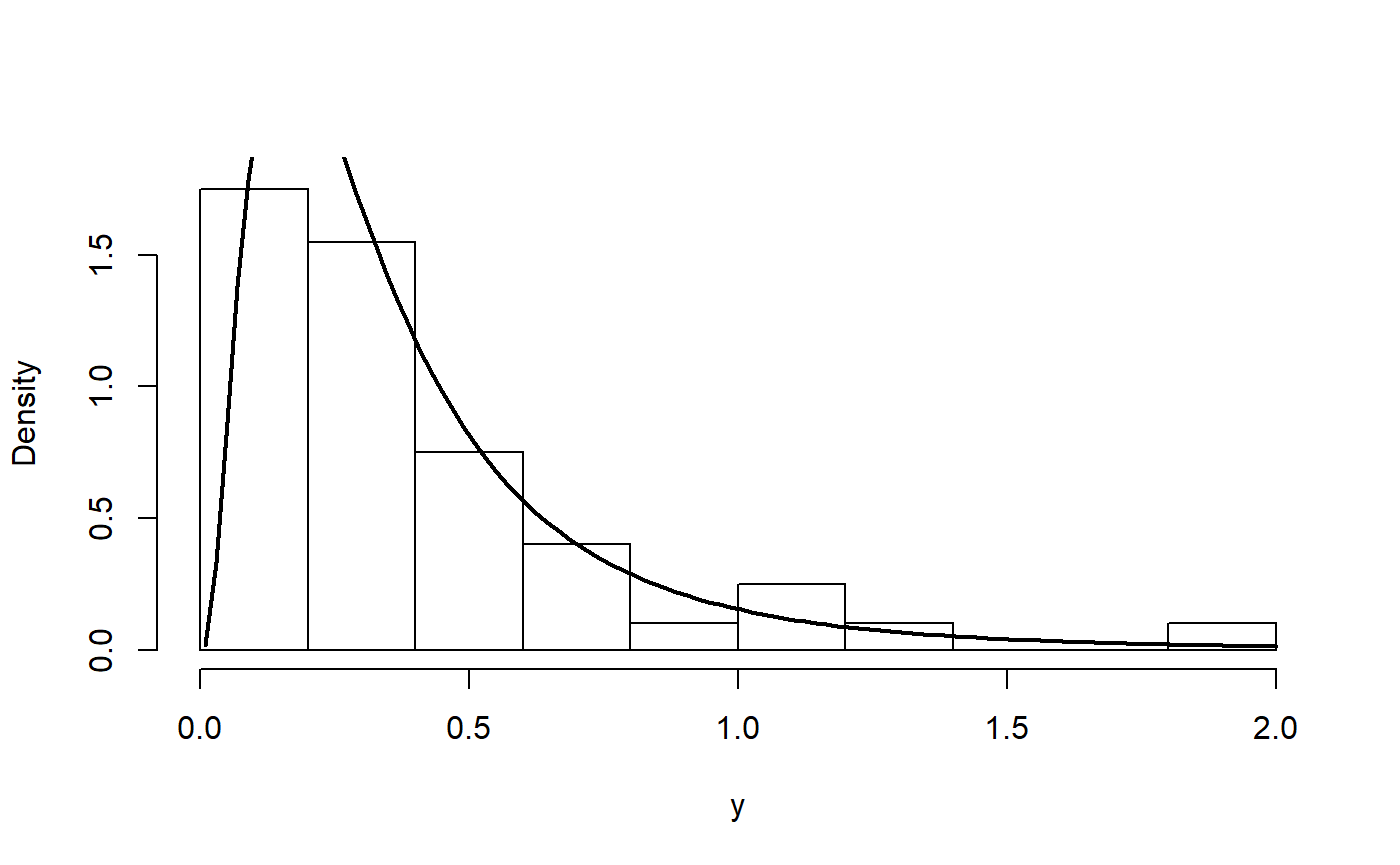
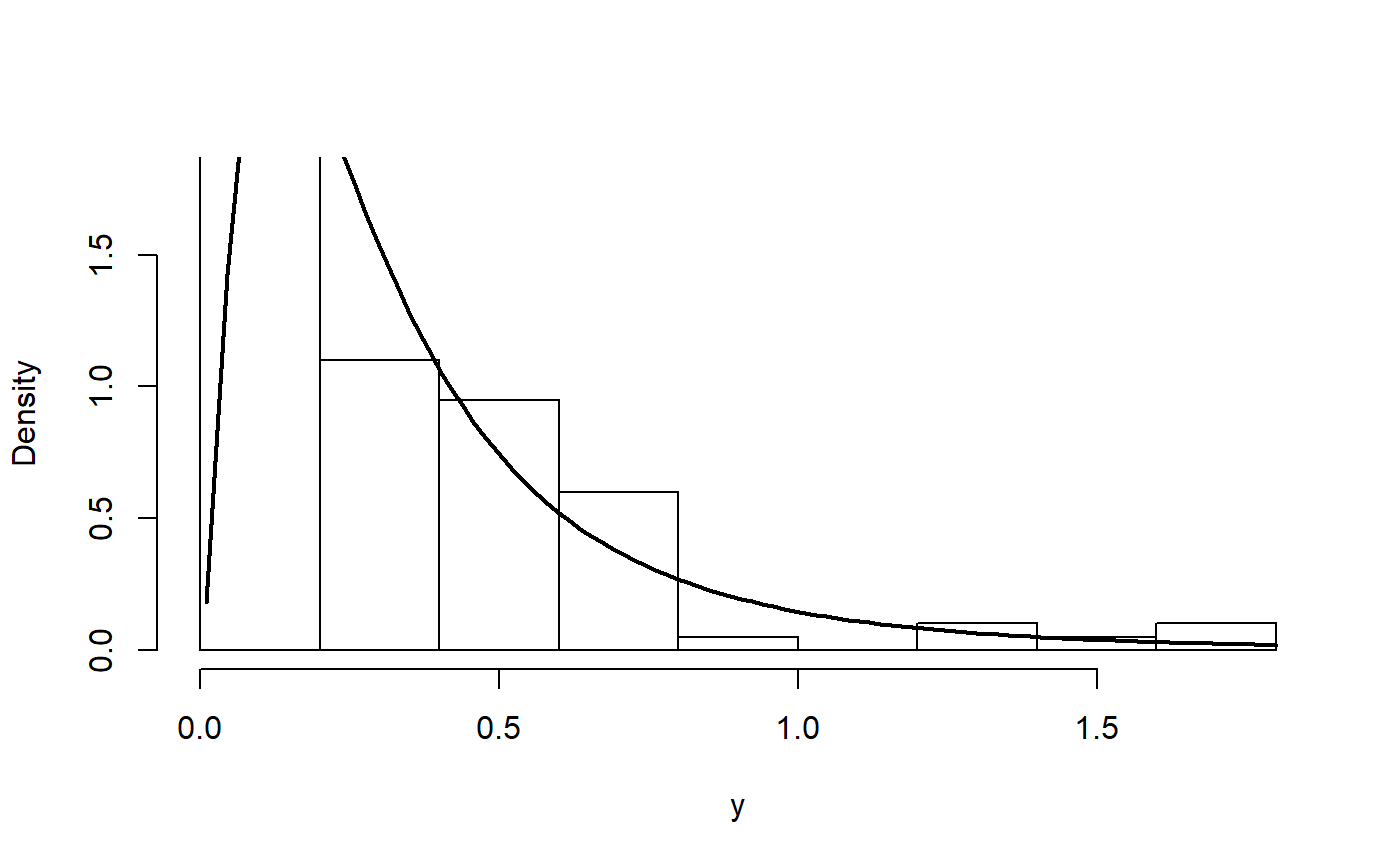
actualice la pag web :punch: :punch:

diff --git a/docs/reference/dKW.html b/docs/reference/dKW.html
@@ -1,0 +1,248 @@
+<!-- Generated by pkgdown: do not edit by hand -->
+<!DOCTYPE html>
+<html>
+  <head>
+  <meta charset="utf-8">
+<meta http-equiv="X-UA-Compatible" content="IE=edge">
+<meta name="viewport" content="width=device-width, initial-scale=1.0">
+
+<title>The Kumaraswamy Weibull Distribution — dKW • RelDists</title>
+
+<!-- jquery -->
+<script src="https://code.jquery.com/jquery-3.1.0.min.js" integrity="sha384-nrOSfDHtoPMzJHjVTdCopGqIqeYETSXhZDFyniQ8ZHcVy08QesyHcnOUpMpqnmWq" crossorigin="anonymous"></script>
+<!-- Bootstrap -->
+
+<link href="https://maxcdn.bootstrapcdn.com/bootstrap/3.3.7/css/bootstrap.min.css" rel="stylesheet" integrity="sha384-BVYiiSIFeK1dGmJRAkycuHAHRg32OmUcww7on3RYdg4Va+PmSTsz/K68vbdEjh4u" crossorigin="anonymous">
+<script src="https://maxcdn.bootstrapcdn.com/bootstrap/3.3.7/js/bootstrap.min.js" integrity="sha384-Tc5IQib027qvyjSMfHjOMaLkfuWVxZxUPnCJA7l2mCWNIpG9mGCD8wGNIcPD7Txa" crossorigin="anonymous"></script>
+
+<!-- Font Awesome icons -->
+<link href="https://maxcdn.bootstrapcdn.com/font-awesome/4.6.3/css/font-awesome.min.css" rel="stylesheet" integrity="sha384-T8Gy5hrqNKT+hzMclPo118YTQO6cYprQmhrYwIiQ/3axmI1hQomh7Ud2hPOy8SP1" crossorigin="anonymous">
+
+<!-- clipboard.js -->
+<script src="https://cdnjs.cloudflare.com/ajax/libs/clipboard.js/1.7.1/clipboard.min.js" integrity="sha384-cV+rhyOuRHc9Ub/91rihWcGmMmCXDeksTtCihMupQHSsi8GIIRDG0ThDc3HGQFJ3" crossorigin="anonymous"></script>
+
+<!-- sticky kit -->
+<script src="https://cdnjs.cloudflare.com/ajax/libs/sticky-kit/1.1.3/sticky-kit.min.js" integrity="sha256-c4Rlo1ZozqTPE2RLuvbusY3+SU1pQaJC0TjuhygMipw=" crossorigin="anonymous"></script>
+
+<!-- pkgdown -->
+<link href="../pkgdown.css" rel="stylesheet">
+<script src="../pkgdown.js"></script>
+
+
+
+<meta property="og:title" content="The Kumaraswamy Weibull Distribution — dKW" />
+
+<meta property="og:description" content="Density, distribution function, quantile function, 
+random generation and hazard function for the Kumaraswamy Weibull distribution 
+with parameters mu, sigma, nu and tau." />
+<meta name="twitter:card" content="summary" />
+
+
+
+<!-- mathjax -->
+<script src='https://mathjax.rstudio.com/latest/MathJax.js?config=TeX-AMS-MML_HTMLorMML'></script>
+
+<!--[if lt IE 9]>
+<script src="https://oss.maxcdn.com/html5shiv/3.7.3/html5shiv.min.js"></script>
+<script src="https://oss.maxcdn.com/respond/1.4.2/respond.min.js"></script>
+<![endif]-->
+
+
+  </head>
+
+  <body>
+    <div class="container template-reference-topic">
+      <header>
+      <div class="navbar navbar-default navbar-fixed-top" role="navigation">
+  <div class="container">
+    <div class="navbar-header">
+      <button type="button" class="navbar-toggle collapsed" data-toggle="collapse" data-target="#navbar">
+        <span class="icon-bar"></span>
+        <span class="icon-bar"></span>
+        <span class="icon-bar"></span>
+      </button>
+      <span class="navbar-brand">
+        <a class="navbar-link" href="../index.html">RelDists</a>
+        <span class="label label-default" data-toggle="tooltip" data-placement="bottom" title="Released package">0.0.1</span>
+      </span>
+    </div>
+
+    <div id="navbar" class="navbar-collapse collapse">
+      <ul class="nav navbar-nav">
+        <li>
+  <a href="../index.html">
+    <span class="fa fa-home fa-lg"></span>
+     
+  </a>
+</li>
+<li>
+  <a href="../reference/index.html">Reference</a>
+</li>
+<li class="dropdown">
+  <a href="#" class="dropdown-toggle" data-toggle="dropdown" role="button" aria-expanded="false">
+    Articles
+     
+    <span class="caret"></span>
+  </a>
+  <ul class="dropdown-menu" role="menu">
+    <li>
+      <a href="../articles/EW_distribution.html">EW distribution</a>
+    </li>
+    <li>
+      <a href="../articles/FWE_distribution.html">FWE distribution</a>
+    </li>
+    <li>
+      <a href="../articles/OW_distribution.html">OW distribution</a>
+    </li>
+  </ul>
+</li>
+      </ul>
+      
+      <ul class="nav navbar-nav navbar-right">
+        
+      </ul>
+      
+    </div><!--/.nav-collapse -->
+  </div><!--/.container -->
+</div><!--/.navbar -->
+
+      
+      </header>
+
+<div class="row">
+  <div class="col-md-9 contents">
+    <div class="page-header">
+    <h1>The Kumaraswamy Weibull Distribution</h1>
+    
+    <div class="hidden name"><code>dKW.Rd</code></div>
+    </div>
+
+    <div class="ref-description">
+    
+    <p>Density, distribution function, quantile function, 
+random generation and hazard function for the Kumaraswamy Weibull distribution 
+with parameters <code>mu</code>, <code>sigma</code>, <code>nu</code> and <code>tau</code>.</p>
+    
+    </div>
+
+    <pre class="usage"><span class='fu'>dKW</span>(<span class='no'>x</span>, <span class='no'>mu</span>, <span class='no'>sigma</span>, <span class='no'>nu</span>, <span class='no'>tau</span>, <span class='kw'>log</span> <span class='kw'>=</span> <span class='fl'>FALSE</span>)
+
+<span class='fu'>pKW</span>(<span class='no'>q</span>, <span class='no'>mu</span>, <span class='no'>sigma</span>, <span class='no'>nu</span>, <span class='no'>tau</span>, <span class='kw'>lower.tail</span> <span class='kw'>=</span> <span class='fl'>TRUE</span>, <span class='kw'>log.p</span> <span class='kw'>=</span> <span class='fl'>FALSE</span>)
+
+<span class='fu'>qKW</span>(<span class='no'>p</span>, <span class='no'>mu</span>, <span class='no'>sigma</span>, <span class='no'>nu</span>, <span class='no'>tau</span>, <span class='kw'>lower.tail</span> <span class='kw'>=</span> <span class='fl'>TRUE</span>, <span class='kw'>log.p</span> <span class='kw'>=</span> <span class='fl'>FALSE</span>)
+
+<span class='fu'>rKW</span>(<span class='no'>n</span>, <span class='no'>mu</span>, <span class='no'>sigma</span>, <span class='no'>nu</span>, <span class='no'>tau</span>)
+
+<span class='fu'>hKW</span>(<span class='no'>x</span>, <span class='no'>mu</span>, <span class='no'>sigma</span>, <span class='no'>nu</span>, <span class='no'>tau</span>)</pre>
+    
+    <h2 class="hasAnchor" id="arguments"><a class="anchor" href="#arguments"></a>Arguments</h2>
+    <table class="ref-arguments">
+    <colgroup><col class="name" /><col class="desc" /></colgroup>
+    <tr>
+      <th>x, q</th>
+      <td><p>vector of quantiles.</p></td>
+    </tr>
+    <tr>
+      <th>mu</th>
+      <td><p>parameter.</p></td>
+    </tr>
+    <tr>
+      <th>sigma</th>
+      <td><p>parameter.</p></td>
+    </tr>
+    <tr>
+      <th>nu</th>
+      <td><p>parameter.</p></td>
+    </tr>
+    <tr>
+      <th>tau</th>
+      <td><p>parameter.</p></td>
+    </tr>
+    <tr>
+      <th>log, log.p</th>
+      <td><p>logical; if TRUE, probabilities p are given as log(p).</p></td>
+    </tr>
+    <tr>
+      <th>lower.tail</th>
+      <td><p>logical; if TRUE (default), probabilities are P[X &lt;= x], otherwise, P[X &gt; x].</p></td>
+    </tr>
+    <tr>
+      <th>p</th>
+      <td><p>vector of probabilities.</p></td>
+    </tr>
+    <tr>
+      <th>n</th>
+      <td><p>number of observations.</p></td>
+    </tr>
+    </table>
+    
+    <h2 class="hasAnchor" id="value"><a class="anchor" href="#value"></a>Value</h2>
+
+    <p><code>dKW</code> gives the density, <code>pKW</code> gives the distribution 
+function, <code>qKW</code> gives the quantile function, <code>rKW</code>
+generates random deviates and <code>hKW</code> gives the hazard function.</p>
+    
+    <h2 class="hasAnchor" id="details"><a class="anchor" href="#details"></a>Details</h2>
+
+    <p>The Kumaraswamy Weibull Distribution with parameters <code>mu</code>, 
+<code>sigma</code>, <code>nu</code> and <code>tau</code> has density given by</p>
+<p>\(f(x)=\nu \tau \mu \sigma x^{\sigma - 1} \exp^{-\mu x ^\sigma} [1 - \exp^{-\mu x ^ \sigma}]^{\nu-1}[1-(1-\exp^{-\mu x ^ \sigma})^\nu]^{\tau-1},\)</p>
+<p>for x &gt; 0.</p>
+    
+
+    <h2 class="hasAnchor" id="examples"><a class="anchor" href="#examples"></a>Examples</h2>
+    <pre class="examples"><div class='input'>
+<span class='co'>## The probability density function</span>
+<span class='fu'>curve</span>(<span class='fu'>dKW</span>(<span class='no'>x</span>, <span class='kw'>mu</span><span class='kw'>=</span><span class='fl'>3</span>, <span class='kw'>sigma</span><span class='kw'>=</span><span class='fl'>0.8</span>, <span class='kw'>nu</span><span class='kw'>=</span><span class='fl'>2.0</span>, <span class='kw'>tau</span><span class='kw'>=</span><span class='fl'>1.5</span>), <span class='kw'>from</span><span class='kw'>=</span><span class='fl'>0</span>, <span class='kw'>to</span><span class='kw'>=</span><span class='fl'>2</span>,
+      <span class='kw'>ylim</span><span class='kw'>=</span><span class='fu'>c</span>(<span class='fl'>0</span>, <span class='fl'>2.5</span>), <span class='kw'>col</span><span class='kw'>=</span><span class='st'>"red"</span>, <span class='kw'>las</span><span class='kw'>=</span><span class='fl'>1</span>, <span class='kw'>ylab</span><span class='kw'>=</span><span class='st'>"f(x)"</span>)</div><div class='img'><img src='dKW-1.png' alt='' width='700' height='433' /></div><div class='input'>
+<span class='co'>## The cumulative distribution and the Reliability function</span>
+<span class='fu'>par</span>(<span class='kw'>mfrow</span><span class='kw'>=</span><span class='fu'>c</span>(<span class='fl'>1</span>, <span class='fl'>2</span>))
+<span class='fu'>curve</span>(<span class='fu'>pKW</span>(<span class='no'>x</span>, <span class='kw'>mu</span><span class='kw'>=</span><span class='fl'>3</span>, <span class='kw'>sigma</span><span class='kw'>=</span><span class='fl'>0.8</span>, <span class='kw'>nu</span><span class='kw'>=</span><span class='fl'>2.0</span>, <span class='kw'>tau</span><span class='kw'>=</span><span class='fl'>1.5</span>),
+      <span class='kw'>from</span><span class='kw'>=</span><span class='fl'>0</span>, <span class='kw'>to</span><span class='kw'>=</span><span class='fl'>2</span>,  <span class='kw'>col</span><span class='kw'>=</span><span class='st'>"red"</span>, <span class='kw'>las</span><span class='kw'>=</span><span class='fl'>1</span>, <span class='kw'>ylab</span><span class='kw'>=</span><span class='st'>"F(x)"</span>)
+<span class='fu'>curve</span>(<span class='fu'>pKW</span>(<span class='no'>x</span>, <span class='kw'>mu</span><span class='kw'>=</span><span class='fl'>3</span>, <span class='kw'>sigma</span><span class='kw'>=</span><span class='fl'>0.8</span>, <span class='kw'>nu</span><span class='kw'>=</span><span class='fl'>2.0</span>, <span class='kw'>tau</span><span class='kw'>=</span><span class='fl'>1.5</span>, <span class='kw'>lower.tail</span><span class='kw'>=</span><span class='fl'>FALSE</span>),
+      <span class='kw'>from</span><span class='kw'>=</span><span class='fl'>0</span>, <span class='kw'>to</span><span class='kw'>=</span><span class='fl'>2</span>, <span class='kw'>col</span><span class='kw'>=</span><span class='st'>"red"</span>, <span class='kw'>las</span><span class='kw'>=</span><span class='fl'>1</span>, <span class='kw'>ylab</span><span class='kw'>=</span><span class='st'>"S(x)"</span>)</div><div class='img'><img src='dKW-2.png' alt='' width='700' height='433' /></div><div class='input'>
+<span class='co'>## The quantile function</span>
+<span class='no'>p</span> <span class='kw'>&lt;-</span> <span class='fu'>seq</span>(<span class='kw'>from</span><span class='kw'>=</span><span class='fl'>0</span>, <span class='kw'>to</span><span class='kw'>=</span><span class='fl'>0.99999</span>, <span class='kw'>length.out</span><span class='kw'>=</span><span class='fl'>100</span>)
+<span class='fu'>plot</span>(<span class='kw'>x</span><span class='kw'>=</span><span class='fu'>qKW</span>(<span class='no'>p</span>, <span class='kw'>mu</span><span class='kw'>=</span><span class='fl'>3</span>, <span class='kw'>sigma</span><span class='kw'>=</span><span class='fl'>0.8</span>, <span class='kw'>nu</span><span class='kw'>=</span><span class='fl'>2.0</span>, <span class='kw'>tau</span><span class='kw'>=</span><span class='fl'>1.5</span>), <span class='kw'>y</span><span class='kw'>=</span><span class='no'>p</span>, <span class='kw'>xlab</span><span class='kw'>=</span><span class='st'>"Quantile"</span>,
+     <span class='kw'>las</span><span class='kw'>=</span><span class='fl'>1</span>, <span class='kw'>ylab</span><span class='kw'>=</span><span class='st'>"Probability"</span>)
+<span class='fu'>curve</span>(<span class='fu'>pKW</span>(<span class='no'>x</span>, <span class='kw'>mu</span><span class='kw'>=</span><span class='fl'>3</span>, <span class='kw'>sigma</span><span class='kw'>=</span><span class='fl'>0.8</span>, <span class='kw'>nu</span><span class='kw'>=</span><span class='fl'>2.0</span>, <span class='kw'>tau</span><span class='kw'>=</span><span class='fl'>1.5</span>), <span class='kw'>from</span><span class='kw'>=</span><span class='fl'>0</span>, <span class='kw'>add</span><span class='kw'>=</span><span class='fl'>TRUE</span>, <span class='kw'>col</span><span class='kw'>=</span><span class='st'>"red"</span>)
+
+<span class='co'>## The random function</span>
+<span class='fu'>hist</span>(<span class='fu'>rKW</span>(<span class='kw'>n</span><span class='kw'>=</span><span class='fl'>10000</span>, <span class='kw'>mu</span><span class='kw'>=</span><span class='fl'>3</span>, <span class='kw'>sigma</span><span class='kw'>=</span><span class='fl'>0.8</span>, <span class='kw'>nu</span><span class='kw'>=</span><span class='fl'>2.0</span>, <span class='kw'>tau</span><span class='kw'>=</span><span class='fl'>1.5</span>), <span class='kw'>freq</span><span class='kw'>=</span><span class='fl'>FALSE</span>,
+     <span class='kw'>xlab</span><span class='kw'>=</span><span class='st'>"x"</span>, <span class='kw'>las</span><span class='kw'>=</span><span class='fl'>1</span>, <span class='kw'>main</span><span class='kw'>=</span><span class='st'>""</span>)</div><div class='input'><span class='fu'>curve</span>(<span class='fu'>dKW</span>(<span class='no'>x</span>, <span class='kw'>mu</span><span class='kw'>=</span><span class='fl'>3</span>, <span class='kw'>sigma</span><span class='kw'>=</span><span class='fl'>0.8</span>, <span class='kw'>nu</span><span class='kw'>=</span><span class='fl'>2.0</span>, <span class='kw'>tau</span><span class='kw'>=</span><span class='fl'>1.5</span>), <span class='kw'>from</span><span class='kw'>=</span><span class='fl'>0</span>, <span class='kw'>add</span><span class='kw'>=</span><span class='fl'>TRUE</span>, <span class='kw'>col</span><span class='kw'>=</span><span class='st'>"red"</span>)</div><div class='img'><img src='dKW-3.png' alt='' width='700' height='433' /></div><div class='input'>
+<span class='co'>## The Hazard function</span>
+<span class='fu'>curve</span>(<span class='fu'>hKW</span>(<span class='no'>x</span>, <span class='kw'>mu</span><span class='kw'>=</span><span class='fl'>3</span>, <span class='kw'>sigma</span><span class='kw'>=</span><span class='fl'>0.8</span>, <span class='kw'>nu</span><span class='kw'>=</span><span class='fl'>2.0</span>, <span class='kw'>tau</span><span class='kw'>=</span><span class='fl'>1.5</span>), <span class='kw'>from</span><span class='kw'>=</span><span class='fl'>0</span>, <span class='kw'>to</span><span class='kw'>=</span><span class='fl'>2</span>, <span class='kw'>ylim</span><span class='kw'>=</span><span class='fu'>c</span>(<span class='fl'>0</span>, <span class='fl'>7</span>),
+      <span class='kw'>col</span><span class='kw'>=</span><span class='st'>"red"</span>, <span class='kw'>ylab</span><span class='kw'>=</span><span class='st'>"Hazard function"</span>, <span class='kw'>las</span><span class='kw'>=</span><span class='fl'>1</span>)</div><div class='img'><img src='dKW-4.png' alt='' width='700' height='433' /></div></pre>
+  </div>
+  <div class="col-md-3 hidden-xs hidden-sm" id="sidebar">
+    <h2>Contents</h2>
+    <ul class="nav nav-pills nav-stacked">
+      <li><a href="#arguments">Arguments</a></li>
+      
+      <li><a href="#value">Value</a></li>
+
+      <li><a href="#details">Details</a></li>
+      
+      <li><a href="#examples">Examples</a></li>
+    </ul>
+
+  </div>
+</div>
+
+      <footer>
+      <div class="copyright">
+  <p>Developed by Freddy Hernandez.</p>
+</div>
+
+<div class="pkgdown">
+  <p>Site built with <a href="http://pkgdown.r-lib.org/">pkgdown</a>.</p>
+</div>
+
+      </footer>
+   </div>
+
+  
+
+  </body>
+</html>
+

diff --git a/docs/reference/EW.html b/docs/reference/EW.html
@@ -165,9 +165,9 @@
 <span class='co'># Extracting the fitted values for mu, sigma and nu</span>
 <span class='co'># using the inverse link function</span>
 <span class='fu'>exp</span>(<span class='fu'>coef</span>(<span class='no'>mod</span>, <span class='kw'>what</span><span class='kw'>=</span><span class='st'>'mu'</span>))</div><div class='output co'>#&gt; (Intercept) 
-#&gt;    1.166086 </div><div class='input'><span class='fu'>exp</span>(<span class='fu'>coef</span>(<span class='no'>mod</span>, <span class='kw'>what</span><span class='kw'>=</span><span class='st'>'sigma'</span>))</div><div class='output co'>#&gt; (Intercept) 
-#&gt;    2.848179 </div><div class='input'><span class='fu'>exp</span>(<span class='fu'>coef</span>(<span class='no'>mod</span>, <span class='kw'>what</span><span class='kw'>=</span><span class='st'>'nu'</span>))</div><div class='output co'>#&gt; (Intercept) 
-#&gt;   0.1995805 </div><div class='input'>
+#&gt;    2.419435 </div><div class='input'><span class='fu'>exp</span>(<span class='fu'>coef</span>(<span class='no'>mod</span>, <span class='kw'>what</span><span class='kw'>=</span><span class='st'>'sigma'</span>))</div><div class='output co'>#&gt; (Intercept) 
+#&gt;    2.109125 </div><div class='input'><span class='fu'>exp</span>(<span class='fu'>coef</span>(<span class='no'>mod</span>, <span class='kw'>what</span><span class='kw'>=</span><span class='st'>'nu'</span>))</div><div class='output co'>#&gt; (Intercept) 
+#&gt;   0.3284974 </div><div class='input'>
 <span class='co'># Example 2</span>
 <span class='co'># Generating random values under some model</span>
 <span class='no'>n</span> <span class='kw'>&lt;-</span> <span class='fl'>200</span>
@@ -182,9 +182,9 @@
               <span class='kw'>control</span><span class='kw'>=</span><span class='fu'><a href='http://www.rdocumentation.org/packages/gamlss/topics/gamlss.control'>gamlss.control</a></span>(<span class='kw'>n.cyc</span><span class='kw'>=</span><span class='fl'>5000</span>, <span class='kw'>trace</span><span class='kw'>=</span><span class='fl'>FALSE</span>))
 
 <span class='fu'>coef</span>(<span class='no'>mod</span>, <span class='kw'>what</span><span class='kw'>=</span><span class='st'>"mu"</span>)</div><div class='output co'>#&gt; (Intercept)          x1 
-#&gt;    2.155175   -3.307358 </div><div class='input'><span class='fu'>coef</span>(<span class='no'>mod</span>, <span class='kw'>what</span><span class='kw'>=</span><span class='st'>"sigma"</span>)</div><div class='output co'>#&gt; (Intercept)          x2 
-#&gt;    3.066709   -1.948430 </div><div class='input'><span class='fu'>coef</span>(<span class='no'>mod</span>, <span class='kw'>what</span><span class='kw'>=</span><span class='st'>"nu"</span>)</div><div class='output co'>#&gt; (Intercept) 
-#&gt;   0.5520372 </div><div class='input'>
+#&gt;    1.836712   -2.108041 </div><div class='input'><span class='fu'>coef</span>(<span class='no'>mod</span>, <span class='kw'>what</span><span class='kw'>=</span><span class='st'>"sigma"</span>)</div><div class='output co'>#&gt; (Intercept)          x2 
+#&gt;    2.661857   -1.995823 </div><div class='input'><span class='fu'>coef</span>(<span class='no'>mod</span>, <span class='kw'>what</span><span class='kw'>=</span><span class='st'>"nu"</span>)</div><div class='output co'>#&gt; (Intercept) 
+#&gt;    1.455146 </div><div class='input'>
 
 </div></pre>
   </div>

diff --git a/docs/articles/EW_distribution.html b/docs/articles/EW_distribution.html
@@ -200,13 +200,13 @@ mod &lt;-<span class="st"> </span><span class="kw">gamlss</span>(y<span class="o
 <p>To obtain the fitted values for <span class="math inline">\(\mu\)</span>, <span class="math inline">\(\sigma\)</span> and <span class="math inline">\(\nu\)</span> we use the inverse link function <span class="math inline">\(\log()\)</span>.</p>
 <div class="sourceCode"><pre class="sourceCode r"><code class="sourceCode r"><span class="kw">exp</span>(<span class="kw">coef</span>(mod, <span class="dt">what=</span><span class="st">'mu'</span>))
 ## (Intercept) 
-##    5.109745
+##    4.602466
 <span class="kw">exp</span>(<span class="kw">coef</span>(mod, <span class="dt">what=</span><span class="st">'sigma'</span>))
 ## (Intercept) 
-##   0.5128907
+##   0.5706605
 <span class="kw">exp</span>(<span class="kw">coef</span>(mod, <span class="dt">what=</span><span class="st">'nu'</span>))
 ## (Intercept) 
-##    10.38228</code></pre></div>
+##    5.812311</code></pre></div>
 <p>The results show that estimated parameters are close to the true parameters <span class="math inline">\(\mu\)</span>, <span class="math inline">\(\sigma\)</span> and <span class="math inline">\(\nu\)</span>.</p>
 <p>In the next figure we have the histogram for the data and the fitted density. We note that the fitted density explains better the observed data.</p>
 <div class="sourceCode"><pre class="sourceCode r"><code class="sourceCode r"><span class="kw">hist</span>(y, <span class="dt">freq=</span><span class="ot">FALSE</span>, <span class="dt">main=</span><span class="st">''</span>, <span class="dt">ylim=</span><span class="kw">c</span>(<span class="dv">0</span>, <span class="fl">1.8</span>))
@@ -291,13 +291,13 @@ y &lt;-<span class="st"> </span><span class="kw"><a href="../reference/dEW.html"
 <p>and the results can be found with</p>
 <div class="sourceCode"><pre class="sourceCode r"><code class="sourceCode r"><span class="kw">coef</span>(mod, <span class="dt">what=</span><span class="st">"mu"</span>)
 ## (Intercept)          x1 
-##    1.932592   -2.024837
+##    2.006536   -2.346737
 <span class="kw">coef</span>(mod, <span class="dt">what=</span><span class="st">"sigma"</span>)
 ## (Intercept)          x2 
-##    2.600716   -1.995025
+##    2.746037   -1.997711
 <span class="kw">coef</span>(mod, <span class="dt">what=</span><span class="st">"nu"</span>)
 ## (Intercept) 
-##    1.511286</code></pre></div>
+##     1.22998</code></pre></div>
 <p>We note that the estimated parameters are close to the true parameter vector <span class="math inline">\(\boldsymbol{\theta} = (2, -3, 3, -2, 2)^\top\)</span>.</p>
 </div>
   </div>

diff --git a/docs/reference/FWE.html b/docs/reference/FWE.html
@@ -159,8 +159,8 @@ has density given by</p>
 <span class='co'># Extracting the fitted values for mu and sigma</span>
 <span class='co'># using the inverse link function</span>
 <span class='fu'>exp</span>(<span class='fu'>coef</span>(<span class='no'>mod</span>, <span class='kw'>what</span><span class='kw'>=</span><span class='st'>'mu'</span>))</div><div class='output co'>#&gt; (Intercept) 
-#&gt;   0.7867038 </div><div class='input'><span class='fu'>exp</span>(<span class='fu'>coef</span>(<span class='no'>mod</span>, <span class='kw'>what</span><span class='kw'>=</span><span class='st'>'sigma'</span>))</div><div class='output co'>#&gt; (Intercept) 
-#&gt;    1.292694 </div><div class='input'>
+#&gt;   0.6774523 </div><div class='input'><span class='fu'>exp</span>(<span class='fu'>coef</span>(<span class='no'>mod</span>, <span class='kw'>what</span><span class='kw'>=</span><span class='st'>'sigma'</span>))</div><div class='output co'>#&gt; (Intercept) 
+#&gt;    1.374442 </div><div class='input'>
 <span class='co'># Example 2</span>
 <span class='co'># Generating random values under some model</span>
 <span class='no'>n</span> <span class='kw'>&lt;-</span> <span class='fl'>200</span>
@@ -174,8 +174,8 @@ has density given by</p>
               <span class='kw'>control</span><span class='kw'>=</span><span class='fu'><a href='http://www.rdocumentation.org/packages/gamlss/topics/gamlss.control'>gamlss.control</a></span>(<span class='kw'>n.cyc</span><span class='kw'>=</span><span class='fl'>5000</span>, <span class='kw'>trace</span><span class='kw'>=</span><span class='fl'>FALSE</span>))
 
 <span class='fu'>coef</span>(<span class='no'>mod</span>, <span class='kw'>what</span><span class='kw'>=</span><span class='st'>"mu"</span>)</div><div class='output co'>#&gt; (Intercept)          x1 
-#&gt;    1.115133   -2.551047 </div><div class='input'><span class='fu'>coef</span>(<span class='no'>mod</span>, <span class='kw'>what</span><span class='kw'>=</span><span class='st'>"sigma"</span>)</div><div class='output co'>#&gt; (Intercept)          x2 
-#&gt;    1.249679   -1.955190 </div><div class='input'>
+#&gt;    1.246968   -3.003555 </div><div class='input'><span class='fu'>coef</span>(<span class='no'>mod</span>, <span class='kw'>what</span><span class='kw'>=</span><span class='st'>"sigma"</span>)</div><div class='output co'>#&gt; (Intercept)          x2 
+#&gt;    1.393200   -2.185614 </div><div class='input'>
 </div></pre>
   </div>
   <div class="col-md-3 hidden-xs hidden-sm" id="sidebar">

diff --git a/docs/articles/FWE_distribution.html b/docs/articles/FWE_distribution.html
@@ -152,10 +152,10 @@ mod &lt;-<span class="st"> </span><span class="kw">gamlss</span>(y<span class="o
 <p>To obtain the fitted values for <span class="math inline">\(\mu\)</span> and <span class="math inline">\(\sigma\)</span> we use the inverse link function <span class="math inline">\(\log()\)</span>.</p>
 <div class="sourceCode"><pre class="sourceCode r"><code class="sourceCode r"><span class="kw">exp</span>(<span class="kw">coef</span>(mod, <span class="dt">what=</span><span class="st">'mu'</span>))
 ## (Intercept) 
-##   0.8250808
+##   0.8176257
 <span class="kw">exp</span>(<span class="kw">coef</span>(mod, <span class="dt">what=</span><span class="st">'sigma'</span>))
 ## (Intercept) 
-##   0.4625957</code></pre></div>
+##   0.5173387</code></pre></div>
 <p>The results show that estimated parameters are close to the true parameters <span class="math inline">\(\mu\)</span> and <span class="math inline">\(\sigma\)</span>.</p>
 <p>In the next figure we have the histogram for the data and the fitted density. We note that the fitted density explains better the observed data.</p>
 <div class="sourceCode"><pre class="sourceCode r"><code class="sourceCode r"><span class="kw">hist</span>(y, <span class="dt">freq=</span><span class="ot">FALSE</span>, <span class="dt">breaks=</span><span class="dv">10</span>, <span class="dt">ylim=</span><span class="kw">c</span>(<span class="dv">0</span>, <span class="fl">1.5</span>), <span class="dt">las=</span><span class="dv">1</span>, <span class="dt">main=</span><span class="st">''</span>)
@@ -188,10 +188,10 @@ y &lt;-<span class="st"> </span><span class="kw"><a href="../reference/dFWE.html
 <p>and the results can be found with</p>
 <div class="sourceCode"><pre class="sourceCode r"><code class="sourceCode r"><span class="kw">coef</span>(mod, <span class="dt">what=</span><span class="st">"mu"</span>)
 ## (Intercept)          x1 
-##    1.113205   -2.952988
+##     1.32358    -3.04916
 <span class="kw">coef</span>(mod, <span class="dt">what=</span><span class="st">"sigma"</span>)
 ## (Intercept)          x2 
-##    1.097220   -1.810511</code></pre></div>
+##    1.397005   -2.294533</code></pre></div>
 <p>We note that the estimated parameters are close to the true parameter vector <span class="math inline">\(\boldsymbol{\theta} = (1.21, -3, 1.26, -2)^\top\)</span>.</p>
 </div>
   </div>

diff --git a/docs/reference/index.html b/docs/reference/index.html
@@ -140,6 +140,12 @@
       </tr><tr>
         
         <td>
+          <p><code><a href="dKW.html">dKW()</a></code> <code><a href="dKW.html">pKW()</a></code> <code><a href="dKW.html">qKW()</a></code> <code><a href="dKW.html">rKW()</a></code> <code><a href="dKW.html">hKW()</a></code> </p>
+        </td>
+        <td><p>The Kumaraswamy Weibull Distribution</p></td>
+      </tr><tr>
+        
+        <td>
           <p><code><a href="dOW.html">dOW()</a></code> <code><a href="dOW.html">pOW()</a></code> <code><a href="dOW.html">qOW()</a></code> <code><a href="dOW.html">rOW()</a></code> <code><a href="dOW.html">hOW()</a></code> </p>
         </td>
         <td><p>The odd Weibull Distribution</p></td>
